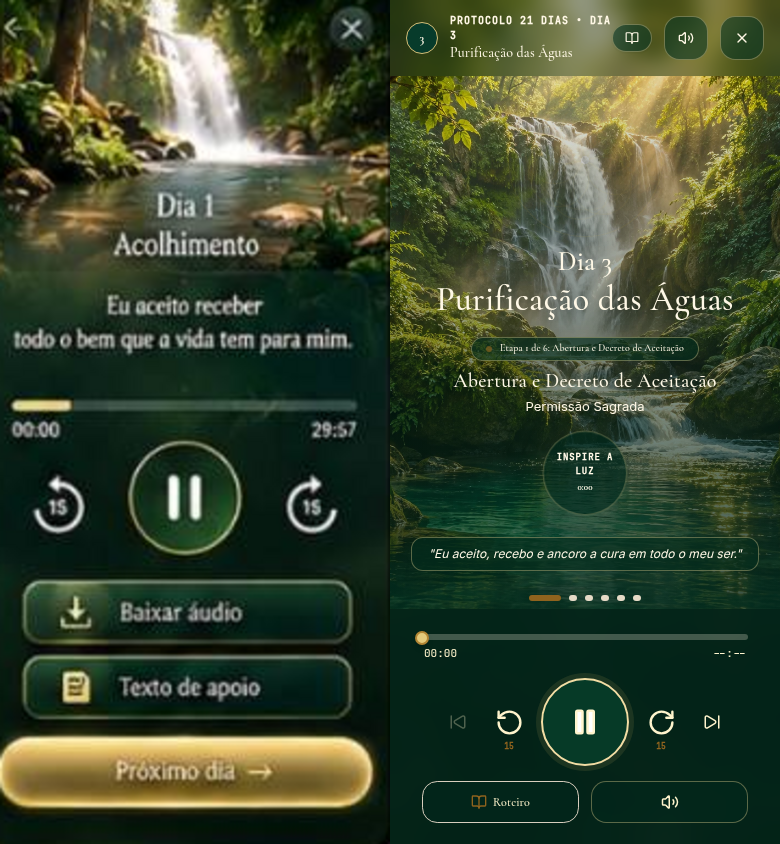
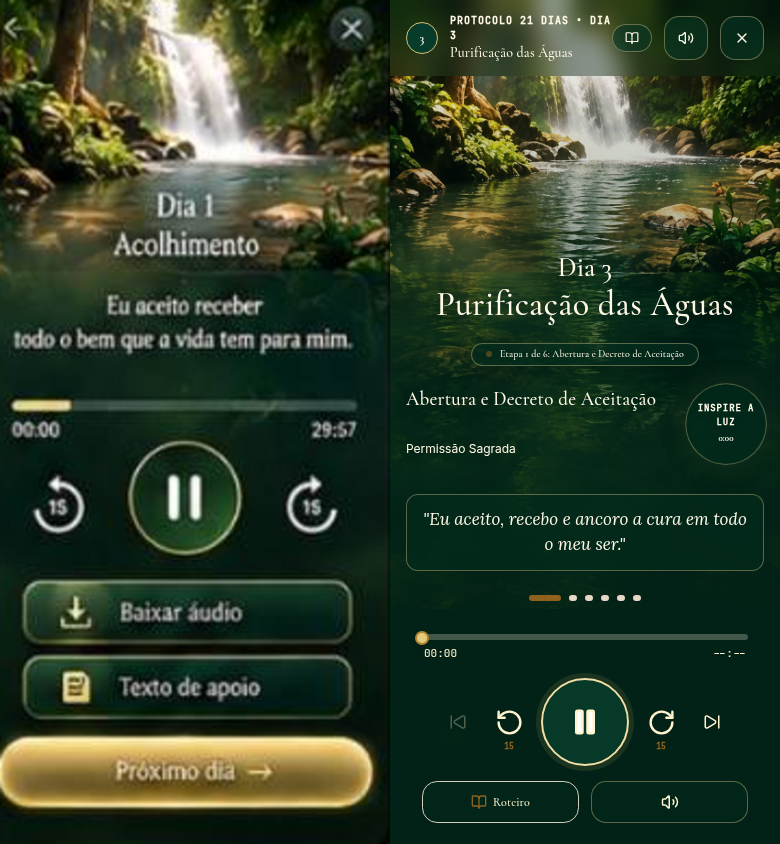
Produce distinct Natural Sereno thumbnails and source-grounded backgrounds

Changed region(s): [[0.4923, 0.0, 1.0, 0.7393]]

diff --git a/src/components/NaturalSerenoHome.tsx b/src/components/NaturalSerenoHome.tsx
@@ -2,7 +2,7 @@ import React, { useState } from 'react';
 import {
   ArrowLeft, Award, AudioLines, BookOpen, ChevronRight, Flower2,
   GraduationCap, Headphones, Heart, Home, Leaf, LogOut, Menu, MessageCircle,
-  Pause, Play, Sliders, Sparkles, Sun, UserRound, Users, Waves, CalendarDays, Citrus,
+  Pause, Play, Sliders, Sparkles, Sun, UserRound, Users, Waves, CalendarDays, Citrus, Search,
 } from 'lucide-react';
 import type { LucideIcon } from 'lucide-react';
 import type { TransformationHomeProps } from './TransformationHome';
@@ -54,12 +54,12 @@ export default function NaturalSerenoHome(props: Props) {
     { title: 'Ho’oponopono', copy: 'Outros caminhos da sua jornada', icon: Heart, action: props.onOpenHooponopono },
   ];
   const library: (Row & { category: string; image: string })[] = [
-    { title: 'Cursos e conteúdos', copy: 'Biblioteca de apoio', icon: GraduationCap, action: props.onOpenCourses, category: 'Cursos', image: '/brand/natural-sereno/reiki.webp' },
-    { title: 'Guia dos 7 Chakras', copy: 'Conheça seus centros de energia', icon: Sparkles, action: props.onOpenChakras, category: 'Práticas', image: '/brand/natural-sereno/presenca.webp' },
-    { title: 'Banhos e Aromas', copy: 'Natureza como parte do cuidado', icon: Leaf, action: props.onOpenBaths, category: 'Práticas', image: '/brand/natural-sereno/aromas.webp' },
-    { title: 'Ho’oponopono', copy: 'Outros caminhos da sua jornada', icon: Heart, action: props.onOpenHooponopono, category: 'Práticas', image: '/brand/natural-sereno/reiki.webp' },
-    { title: 'Numerologia', copy: 'Ciclos, essência e caminhos', icon: Flower2, action: props.onOpenNumerology, category: 'Autoconhecimento', image: '/brand/natural-sereno/cachoeira.webp' },
-    { title: 'Mapa Astral', copy: 'Um olhar simbólico para sua jornada', icon: Sun, action: props.onOpenAstral, category: 'Autoconhecimento', image: '/brand/natural-sereno/vale-amanhecer.webp' },
+    { title: 'Cursos e conteúdos', copy: 'Biblioteca de apoio', icon: GraduationCap, action: props.onOpenCourses, category: 'Cursos', image: '/brand/natural-sereno/library/cursos.webp' },
+    { title: 'Guia dos 7 Chakras', copy: 'Conheça seus centros de energia', icon: Sparkles, action: props.onOpenChakras, category: 'Práticas', image: '/brand/natural-sereno/library/chakras.webp' },
+    { title: 'Banhos e Aromas', copy: 'Natureza como parte do cuidado', icon: Leaf, action: props.onOpenBaths, category: 'Práticas', image: '/brand/natural-sereno/library/banhos.webp' },
+    { title: 'Ho’oponopono', copy: 'Outros caminhos da sua jornada', icon: Heart, action: props.onOpenHooponopono, category: 'Práticas', image: '/brand/natural-sereno/library/hooponopono.webp' },
+    { title: 'Numerologia', copy: 'Ciclos, essência e caminhos', icon: Flower2, action: props.onOpenNumerology, category: 'Autoconhecimento', image: '/brand/natural-sereno/library/numerologia.webp' },
+    { title: 'Mapa Astral', copy: 'Um olhar simbólico para sua jornada', icon: Sun, action: props.onOpenAstral, category: 'Autoconhecimento', image: '/brand/natural-sereno/library/mapa-astral.webp' },
   ];
   const menu: Row[] = [
     { title: '21 Dias para Voltar para Mim', copy: 'Reintegração da Vida', icon: Leaf, action: props.onOpenPersonalJourney },
@@ -114,7 +114,7 @@ export default function NaturalSerenoHome(props: Props) {
       </section>
       <div className="ns-home-content">
         <button className="ns-current-day ns-row" onClick={() => props.onStartSession(props.currentDay)}>
-          <img src="/brand/natural-sereno/cachoeira.webp" alt="" />
+          <img src={`/brand/natural-sereno/days/dia-${String(props.currentDay).padStart(2, '0')}.webp`} alt="" />
           <span className="ns-row-copy"><small>Dia {props.currentDay}</small><strong>{insight?.title}</strong></span><Play size={19} />
         </button>
         {!props.anamnesis ? <section className="ns-editorial-card">
@@ -136,7 +136,7 @@ export default function NaturalSerenoHome(props: Props) {
         const done = props.progress.some(item => item.dayNumber === entry.day && item.completed);
         return <button key={entry.day} className="ns-row ns-day" aria-label={`Abrir dia ${entry.day}: ${entry.title}`} onClick={() => props.onStartSession(entry.day)}>
           <span className="ns-day-number">{entry.day}</span>
-          <img src={`/brand/natural-sereno/${['presenca', 'vale-amanhecer', 'cachoeira', 'reiki', 'acolhimento'][(entry.day - 1) % 5]}.webp`} alt="" loading="lazy" />
+          <img src={`/brand/natural-sereno/days/dia-${String(entry.day).padStart(2, '0')}.webp`} alt="" loading="lazy" />
           <span className="ns-row-copy"><strong>{entry.title}</strong><small>{done ? 'Concluído' : entry.day === props.currentDay ? 'Seu momento' : entry.focus}</small></span><ChevronRight size={17} />
         </button>;
       })}
@@ -145,7 +145,7 @@ export default function NaturalSerenoHome(props: Props) {
     </section>}
 
     {view === 'library' && <section className="ns-list">
-      <label className="ns-search"><BookOpen size={18} /><input value={search} onChange={e => setSearch(e.target.value)} placeholder="Buscar um curso, prática ou tema…" aria-label="Buscar na biblioteca" /></label>
+      <label className="ns-search"><Search size={20} /><input value={search} onChange={e => setSearch(e.target.value)} placeholder="Buscar um curso, prática ou tema…" aria-label="Buscar na biblioteca" /></label>
       <div className="ns-filter" aria-label="Categorias da biblioteca">{['Todos', 'Cursos', 'Práticas', 'Autoconhecimento'].map(label => <button key={label} aria-pressed={category === label} onClick={() => setCategory(label)}>{label}</button>)}</div>
       {library.filter(row => (category === 'Todos' || row.category === category) && `${row.title} ${row.copy}`.toLocaleLowerCase('pt-BR').includes(search.toLocaleLowerCase('pt-BR'))).map(row => <button key={row.title} className="ns-row ns-library-row" onClick={row.action}><img src={row.image} alt="" /><span className="ns-row-copy"><strong>{row.title}</strong><small>{row.copy}</small></span><ChevronRight size={17} /></button>)}
       {!library.some(row => (category === 'Todos' || row.category === category) && `${row.title} ${row.copy}`.toLocaleLowerCase('pt-BR').includes(search.toLocaleLowerCase('pt-BR'))) && <p role="status" className="ns-empty">Nenhum conteúdo encontrado.</p>}

diff --git a/src/natural-sereno.css b/src/natural-sereno.css
@@ -496,3 +496,37 @@
 :root[data-layout="natural-sereno"] #meditation-session > footer button:is([title="Voltar 15 segundos"], [title="Avançar 15 segundos"]) { width: 48px; height: 48px; }
 :root[data-layout="natural-sereno"] #meditation-session > footer button:is([title="Voltar 15 segundos"], [title="Avançar 15 segundos"]) svg { width: 29px; height: 29px; }
 :root[data-layout="natural-sereno"] #meditation-session > main { padding-top: 140px; }
+
+/* Third source comparison: keep stage guidance, with the day and mantra first. */
+:root[data-layout="natural-sereno"] #meditation-session > main { justify-content: flex-start; padding-top: 150px; }
+:root[data-layout="natural-sereno"] #meditation-session .ep-session-stage { display: grid; grid-template-columns: minmax(0, 1fr) 78px; column-gap: 12px; align-items: center; }
+:root[data-layout="natural-sereno"] #meditation-session .ns-session-title { grid-column: 1 / -1; grid-row: 1; margin-bottom: 20px; }
+:root[data-layout="natural-sereno"] #meditation-session .ep-stage-badge { grid-column: 1 / -1; grid-row: 2; justify-self: center; }
+:root[data-layout="natural-sereno"] #meditation-session .ep-stage-title { grid-column: 1; grid-row: 3; text-align: left; font-size: 19px !important; }
+:root[data-layout="natural-sereno"] #meditation-session .ep-stage-subtitle { grid-column: 1; grid-row: 4; text-align: left; justify-self: start; font-size: 12px; margin: 0; }
+:root[data-layout="natural-sereno"] #meditation-session .ep-breathing-guide { grid-column: 2; grid-row: 3 / 5; width: 72px !important; height: 72px !important; margin: 0 !important; }
+:root[data-layout="natural-sereno"] #meditation-session .ep-session-mantra { grid-column: 1 / -1; grid-row: 5; font: italic 17px/1.5 'Lora', Georgia, serif; margin-top: 22px; padding: 12px !important; }
+:root[data-layout="natural-sereno"] #anamnesis-modal .ep-anamnesis-frequency { background: var(--ns-paper) !important; border-color: var(--ns-line); border-radius: 12px; }
+:root[data-layout="natural-sereno"] #anamnesis-modal .ep-anamnesis-frequency [class*="text-emerald"] { color: var(--ns-forest) !important; }
+:root[data-layout="natural-sereno"] #anamnesis-modal .ep-anamnesis-frequency [class*="bg-emerald"] { background: #e7ead9 !important; border-color: var(--ns-line) !important; }
+:root[data-layout="natural-sereno"] #anamnesis-modal .ep-anamnesis-frequency > div > div:first-child { background: var(--ns-forest) !important; color: #e9d296 !important; }
+:root[data-layout="natural-sereno"] #anamnesis-modal .ep-anamnesis-frequency > div > div:first-child > svg { color: #e9d296 !important; }
+/* Six library rows fit below search and filters at the approved phone scale. */
+:root[data-layout="natural-sereno"] .ns-library-row { min-height: 74px; padding: 8px 12px; margin-bottom: 6px; }
+:root[data-layout="natural-sereno"] .ns-search { font-size: 14px; }
+:root[data-layout="natural-sereno"] .ns-search input { padding: 0; border: 0 !important; background: transparent !important; box-shadow: none !important; font-size: 14px; color: var(--ns-ink); }
+:root[data-layout="natural-sereno"] .ns-filter { font-size: 13px; padding: 10px 0; }
+:root[data-layout="natural-sereno"] .ns-app[data-ns-screen="profile"] .ns-page-heading { min-height: 90px; padding-top: 18px; padding-bottom: 10px; }
+:root[data-layout="natural-sereno"] .ns-app[data-ns-screen="profile"] .ns-page-heading h1 { font-size: 30px; }
+:root[data-layout="natural-sereno"] .ns-app[data-ns-screen="profile"] .ns-page-heading p { font-size: 12px; }
+:root[data-layout="natural-sereno"] .ns-profile .ns-row { min-height: 60px; padding: 8px 12px; }
+:root[data-layout="natural-sereno"] .ns-profile .ns-row-copy strong { font-size: 16px; }
+/* Keep the existing contact action in the page flow on internal screens so it
+   cannot cover rows, profile controls or the signature above the dock. */
+:root[data-layout="natural-sereno"]:has(.ns-app:not([data-ns-screen="home"]):not([data-ns-screen="welcome"])) #floating-whatsapp-btn {
+  position: static;
+  width: fit-content;
+  margin: 18px auto 100px;
+  padding: 10px 16px;
+}
+:root[data-layout="natural-sereno"]:has(.ns-app:not([data-ns-screen="home"]):not([data-ns-screen="welcome"])) #floating-whatsapp-btn span { max-width: none; }

diff --git a/src/components/MeditationSession.tsx b/src/components/MeditationSession.tsx
@@ -349,30 +349,30 @@ export default function MeditationSession({
             animate={{ opacity: 1, y: 0 }}
             exit={{ opacity: 0, y: -12 }}
             transition={{ duration: 0.6 }}
-            className="w-full flex flex-col items-center"
+            className="ep-session-stage w-full flex flex-col items-center"
           >
             <div className="ns-session-title hidden">
               <p>Dia {dayNumber}</p>
               <h2>{currentInsight.title || 'Alinhamento Energético'}</h2>
             </div>
             {/* Stage Badge & Step Indicator */}
-            <div className="inline-flex items-center gap-2 px-3.5 py-1 rounded-full border border-[#B88736]/30 bg-[#FAF4E8] text-xs font-serif text-[#8F631E] mb-6 shadow-xs font-medium">
+            <div className="ep-stage-badge inline-flex items-center gap-2 px-3.5 py-1 rounded-full border border-[#B88736]/30 bg-[#FAF4E8] text-xs font-serif text-[#8F631E] mb-6 shadow-xs font-medium">
               <span className="w-1.5 h-1.5 rounded-full bg-[#8F631E] animate-pulse" />
               <span>Etapa {currentStageIndex + 1} de {stages.length}: {currentStage.title}</span>
             </div>
 
             {/* Sacred Title */}
-            <h2 className="text-2xl sm:text-3xl font-serif text-[#2A2420] font-normal tracking-wide mb-3">
+            <h2 className="ep-stage-title text-2xl sm:text-3xl font-serif text-[#2A2420] font-normal tracking-wide mb-3">
               {currentStage.title}
             </h2>
 
             {/* Focus Description */}
-            <p className="text-sm text-[#5C5248] leading-relaxed max-w-md mx-auto mb-6">
+            <p className="ep-stage-subtitle text-sm text-[#5C5248] leading-relaxed max-w-md mx-auto mb-6">
               {currentStage.subtitle}
             </p>
 
             {/* Subtle Respiration Guidance Ring */}
-            <div className="relative w-44 h-44 my-4 flex items-center justify-center">
+            <div className="ep-breathing-guide relative w-44 h-44 my-4 flex items-center justify-center">
               <motion.div
                 animate={{
                   scale: isPlaying
@@ -397,7 +397,7 @@ export default function MeditationSession({
             </div>
 
             {/* Quick Mantra or Canonical decree line */}
-            <div className="mt-4 px-4 py-2 rounded-xl bg-white/90 border border-[#E5DAC6] max-w-sm text-xs italic text-[#5C5248] shadow-xs">
+            <div className="ep-session-mantra mt-4 px-4 py-2 rounded-xl bg-white/90 border border-[#E5DAC6] max-w-sm text-xs italic text-[#5C5248] shadow-xs">
               "{activeScript.symbols?.[0] ? `${activeScript.symbols[0]} — ` : ''}{activeScript.mantra || 'Eu aceito, recebo e ancoro a cura em todo o meu ser.'}"
             </div>
           </motion.div>

diff --git a/src/components/AnamnesisModal.tsx b/src/components/AnamnesisModal.tsx
@@ -1000,7 +1000,7 @@ export default function AnamnesisModal({
             </div>
 
             {/* 639 Hz Frequency Banner: Melhora a compreensão, tolerância e relações interpessoais */}
-            <div className="p-3 rounded-2xl bg-gradient-to-r from-emerald-50 via-[#FBF8F2] to-[#F3EBDD] border border-emerald-200 flex flex-col sm:flex-row items-start sm:items-center justify-between gap-2.5">
+            <div className="ep-anamnesis-frequency p-3 rounded-2xl bg-gradient-to-r from-emerald-50 via-[#FBF8F2] to-[#F3EBDD] border border-emerald-200 flex flex-col sm:flex-row items-start sm:items-center justify-between gap-2.5">
               <div className="flex items-center gap-2.5">
                 <div className="relative w-8 h-8 rounded-xl bg-emerald-500/20 border border-emerald-500/40 flex items-center justify-center text-emerald-700 shrink-0">
                   <Heart size={16} className={is639HzActive ? 'scale-110 text-emerald-400 animate-pulse' : 'opacity-60'} />
